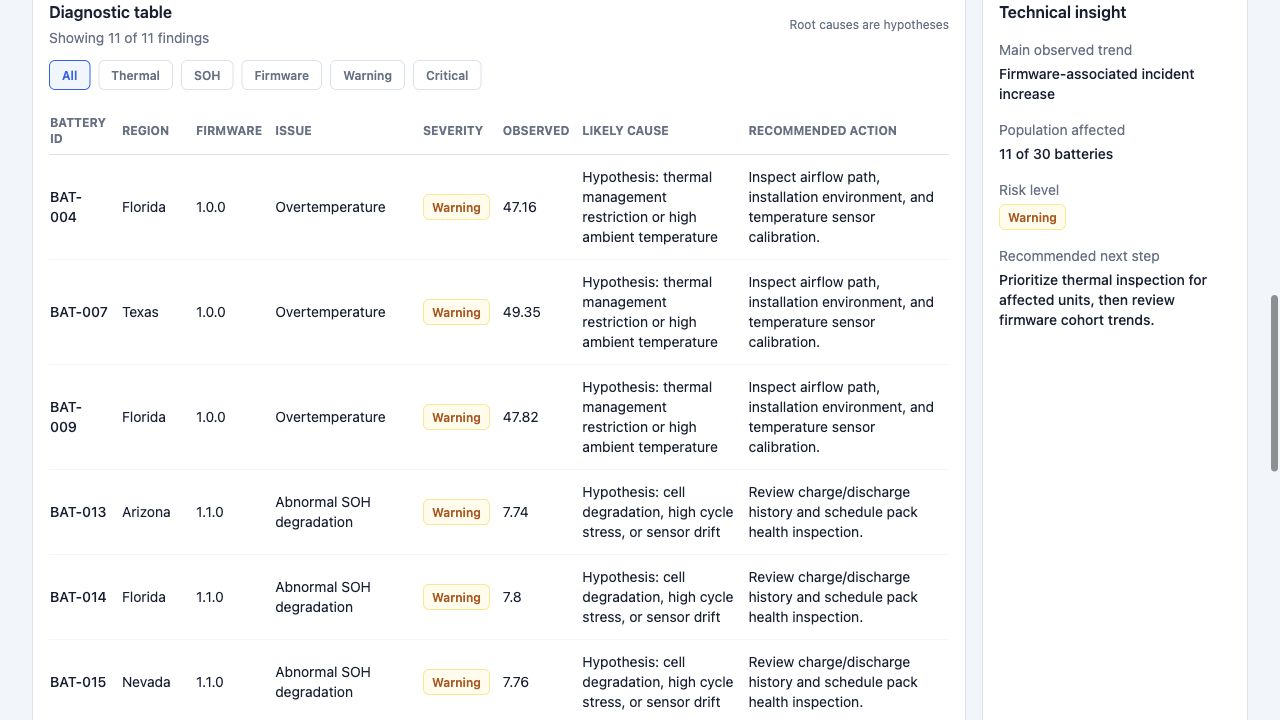
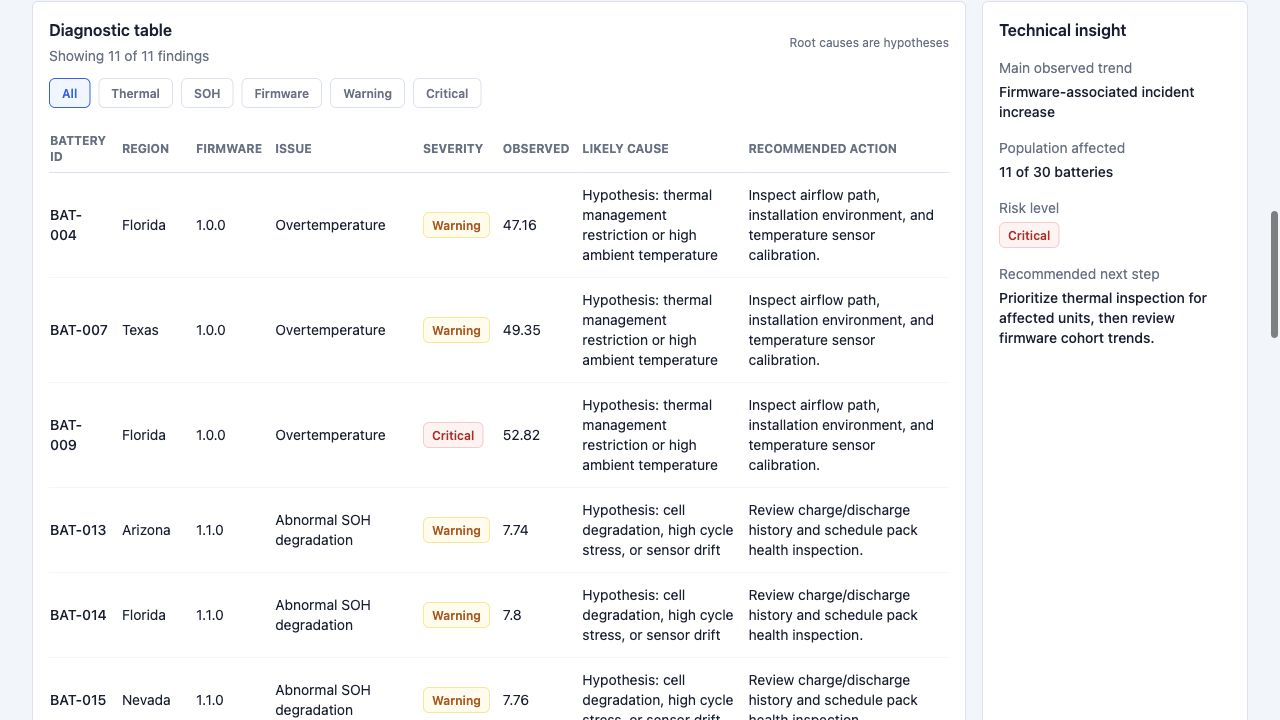
Add reliability screenshots and documentation

diff --git a/README.md b/README.md
@@ -32,6 +32,9 @@ This project demonstrates that workflow in a compact, explainable demo.
 - Recharts visualizations
 - Diagnostic table with severity badges and filters
 - Battery-level telemetry detail
+- FMEA register with Severity, Occurrence, Detection, RPN, and priority
+- Failure tree for a critical battery overtemperature event
+- Corrective action validation with before/after effectiveness
 - Vercel-ready monorepo structure
 
 ## Demo Scenarios
@@ -45,6 +48,20 @@ The synthetic fleet injects exactly three visible issue patterns:
 Root causes are presented as hypotheses, not proven conclusions.
 
 ![Diagnostic table](docs/screenshots/diagnostic-table.png)
+
+The diagnostic table converts telemetry symptoms into engineering findings. `Observed` is the measured value that triggered the rule: temperature in Celsius for thermal issues, SOH drop in percentage points for degradation issues, and affected firmware cohort rate for firmware issues.
+
+## Reliability Engineering Views
+
+The dashboard includes compact reliability-engineering artifacts that are easy to explain in an interview:
+
+- **FMEA Register:** lists failure modes, system effects, detection method, Severity, Occurrence, Detection, calculated RPN, and priority.
+- **Failure Tree:** shows a visual fault-tree hypothesis for the critical `BAT-009` overtemperature event.
+- **Corrective Action Validation:** compares the thermal issue count before and after an airflow/thermal-path corrective action.
+
+![Reliability analysis](docs/screenshots/reliability-analysis.png)
+
+These views keep the project simple while demonstrating how fleet telemetry can support FMEA-style prioritization, fault-tree reasoning, and validation of corrective actions.
 
 ## Current Demo Output
 
@@ -212,6 +229,14 @@ GET  /batteries/{battery_id}
 GET  /batteries/{battery_id}/telemetry
 ```
 
+Reliability engineering endpoints:
+
+```text
+GET  /reliability/fmea
+GET  /reliability/failure-tree
+GET  /reliability/corrective-action-validation
+```
+
 For Vercel rewrites, the backend also accepts the same API routes under `/api/...`.
 
 ## Testing
@@ -233,7 +258,7 @@ npm run build
 Verified locally:
 
 ```text
-Backend tests: 6 passed
+Backend tests: 10 passed
 Frontend build: compiled successfully
 ```
 
@@ -253,7 +278,15 @@ Convert telemetry records into fleet KPIs, firmware incident rates, battery heal
 
 **Reliability Engineering**
 
-Compares firmware cohorts, calculates incident rates, identifies affected population, and separates unit-level issues from cohort-level trends.
+Compares firmware cohorts, calculates incident rates, identifies affected population, separates unit-level issues from cohort-level trends, and shows FMEA-style risk prioritization.
+
+**FMEA / FTA**
+
+Uses a compact FMEA register to calculate RPN from Severity, Occurrence, and Detection. Uses a simple fault tree to frame likely causes for a critical overtemperature event without claiming root cause is proven.
+
+**Corrective Action Validation**
+
+Compares before/after counts for a thermal-path corrective action and labels the action as partially effective when warning-level events improve but one critical unit remains open.
 
 **Diagnostics**
 

diff --git a/docs/technical_notes.md b/docs/technical_notes.md
@@ -22,7 +22,8 @@ Pandas + NumPy Analysis
 2. Telemetry is persisted through SQLAlchemy models.
 3. Dashboard endpoints load records from SQL.
 4. Pandas DataFrames calculate fleet summaries and diagnostic findings.
-5. The frontend renders KPIs, charts, diagnostic tables, and battery details.
+5. Reliability helpers build the FMEA register, failure tree, and corrective-action validation view.
+6. The frontend renders KPIs, charts, diagnostic tables, reliability artifacts, and battery details.
 
 ## Key Backend Files
 
@@ -48,6 +49,32 @@ Pandas + NumPy Analysis
 | Critical overtemperature | max temperature >= `50 C` |
 | SOH degradation | SOH drop > `4 percentage points` |
 | Firmware incident increase | firmware cohort incident rate > `25%` using `FW-*` error codes |
+
+## Reliability Engineering Artifacts
+
+| View | Purpose |
+| --- | --- |
+| FMEA register | Prioritizes failure modes using Severity, Occurrence, Detection, and RPN |
+| Failure tree | Frames likely contributors to the `BAT-009` critical overtemperature event |
+| Corrective action validation | Compares thermal issue count before and after a thermal-path corrective action |
+
+The FMEA register is intentionally compact. It is designed to show engineering reasoning, not to replace a full production DFMEA process.
+
+Current FMEA examples:
+
+| Failure mode | S | O | D | RPN | Priority |
+| --- | ---: | ---: | ---: | ---: | --- |
+| Overtemperature | 8 | 4 | 3 | 96 | High |
+| Abnormal SOH degradation | 7 | 3 | 4 | 84 | Medium |
+| Firmware-associated incident increase | 6 | 5 | 3 | 90 | High |
+
+Corrective-action validation currently models a thermal path inspection and airflow correction:
+
+```text
+Before: 3 batteries above 45 C
+After:  1 battery above 45 C
+Result: Partially effective
+```
 
 ## Local Ports
 
@@ -107,4 +134,12 @@ Check dashboard summary:
 
 ```bash
 curl http://127.0.0.1:8001/dashboard/summary
+```
+
+Check reliability endpoints:
+
+```bash
+curl http://127.0.0.1:8001/reliability/fmea
+curl http://127.0.0.1:8001/reliability/failure-tree
+curl http://127.0.0.1:8001/reliability/corrective-action-validation
 ```

diff --git a/docs/interview_talking_points.md b/docs/interview_talking_points.md
@@ -16,7 +16,8 @@ The demo uses FastAPI, SQLAlchemy, SQLite, Pandas, NumPy, Next.js, TypeScript, T
    - increased firmware-related incidents on firmware `2.1.0`.
 4. The backend stores telemetry in SQL and analyzes it with Pandas and NumPy.
 5. The dashboard presents fleet KPIs, firmware incident rates, health distribution, temperature comparison, SOH comparison, diagnostic findings, and battery-level detail.
-6. Root causes are intentionally shown as hypotheses, not proven conclusions.
+6. The reliability section adds an FMEA register, a fault-tree hypothesis for a critical event, and corrective-action validation.
+7. Root causes are intentionally shown as hypotheses, not proven conclusions.
 
 ## Engineering Framing
 
@@ -31,6 +32,9 @@ The project demonstrates:
 - transparent rule-based diagnostics
 - reliability KPI monitoring
 - firmware cohort comparison
+- FMEA-style risk prioritization using Severity, Occurrence, Detection, and RPN
+- fault-tree reasoning for a critical thermal event
+- corrective-action before/after validation
 - technical communication through dashboard design
 
 ## Diagnostic Logic
@@ -59,6 +63,12 @@ The key engineering interpretation is:
 
 > The fleet has localized thermal and SOH issues, plus a cohort-level reliability signal associated with firmware `2.1.0`. The next engineering step would be to inspect thermal environments, review degradation history, and compare firmware incident rates against previous firmware releases before recommending rollback or hotfix validation.
 
+The reliability section adds:
+
+- an FMEA register where overtemperature has RPN `96` and High priority,
+- a failure tree for `BAT-009` critical overtemperature,
+- a corrective-action validation showing thermal issue count improving from `3` to `1`, which is partially effective because one critical unit remains open.
+
 ## Good Interview Questions And Answers
 
 **Why use synthetic data?**
@@ -75,11 +85,11 @@ I would add authentication, background ingestion jobs, database migrations, Post
 
 **How does this show reliability engineering?**
 
-It compares incident rates across firmware cohorts, tracks affected population, identifies repeated failure patterns, and presents risk level and recommended next steps.
+It compares incident rates across firmware cohorts, tracks affected population, identifies repeated failure patterns, presents risk level and recommended next steps, calculates FMEA risk priority numbers, and validates corrective-action effectiveness.
 
 **How does this support root-cause analysis?**
 
-It does not claim root cause is proven. It turns telemetry symptoms into likely hypotheses that an engineer would validate with service history, environment data, firmware history, and additional testing.
+It does not claim root cause is proven. It turns telemetry symptoms into likely hypotheses that an engineer would validate with service history, environment data, firmware history, and additional testing. The failure tree makes that hypothesis structure visible.
 
 ## Suggested Live Demo Flow
 
@@ -88,5 +98,8 @@ It does not claim root cause is proven. It turns telemetry symptoms into likely 
 3. Show firmware incident chart and explain why `2.1.0` stands out.
 4. Show temperature and SOH charts and explain unit-level anomalies.
 5. Use diagnostic filters: Thermal, SOH, Firmware.
-6. Open a battery detail and show recent telemetry plus diagnostics.
-7. End with what you would add next for production.
+6. Show the FMEA register and explain how RPN is calculated from Severity, Occurrence, and Detection.
+7. Show the failure tree for `BAT-009` and explain that it is a hypothesis map, not a final root cause.
+8. Show corrective-action validation and explain why the action is partially effective.
+9. Open a battery detail and show recent telemetry plus diagnostics.
+10. End with what you would add next for production.